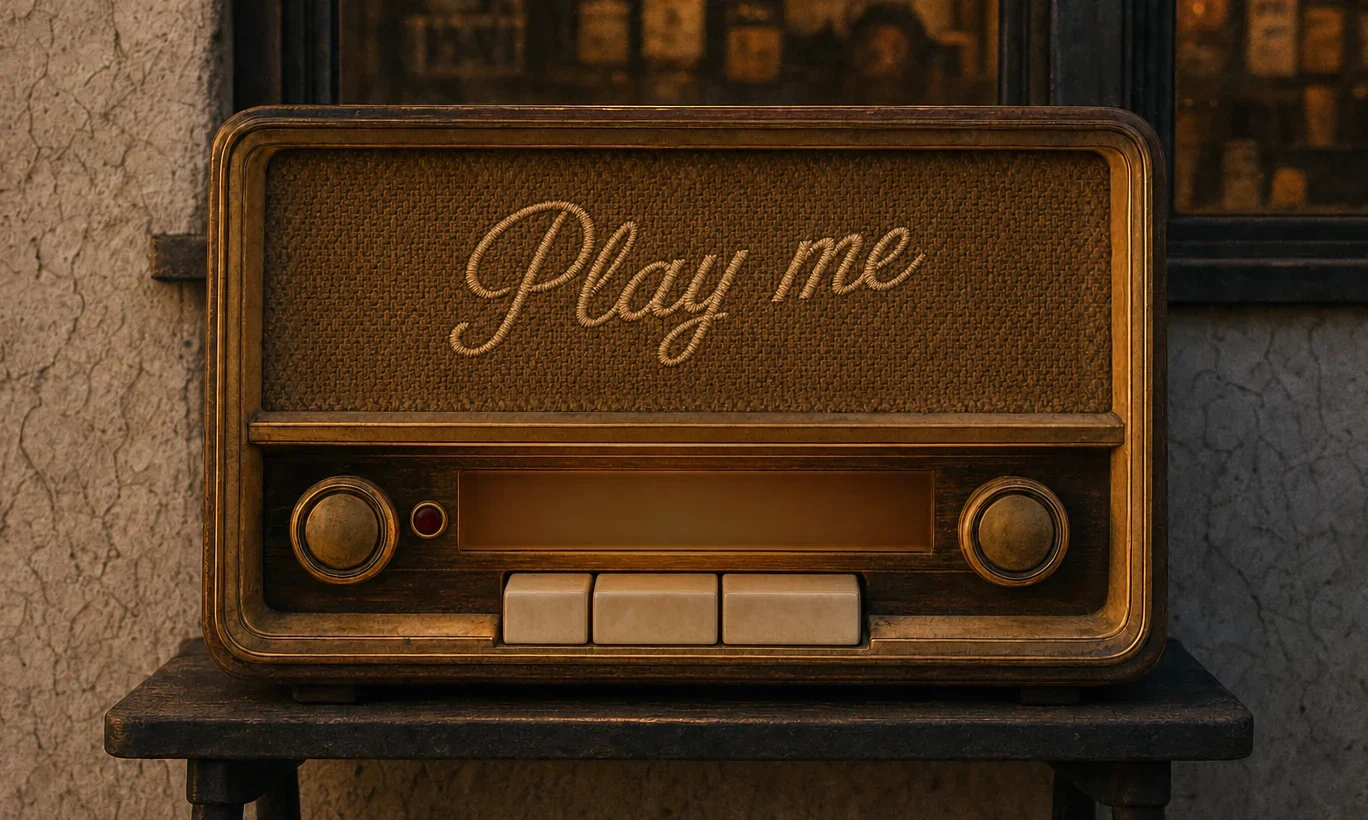
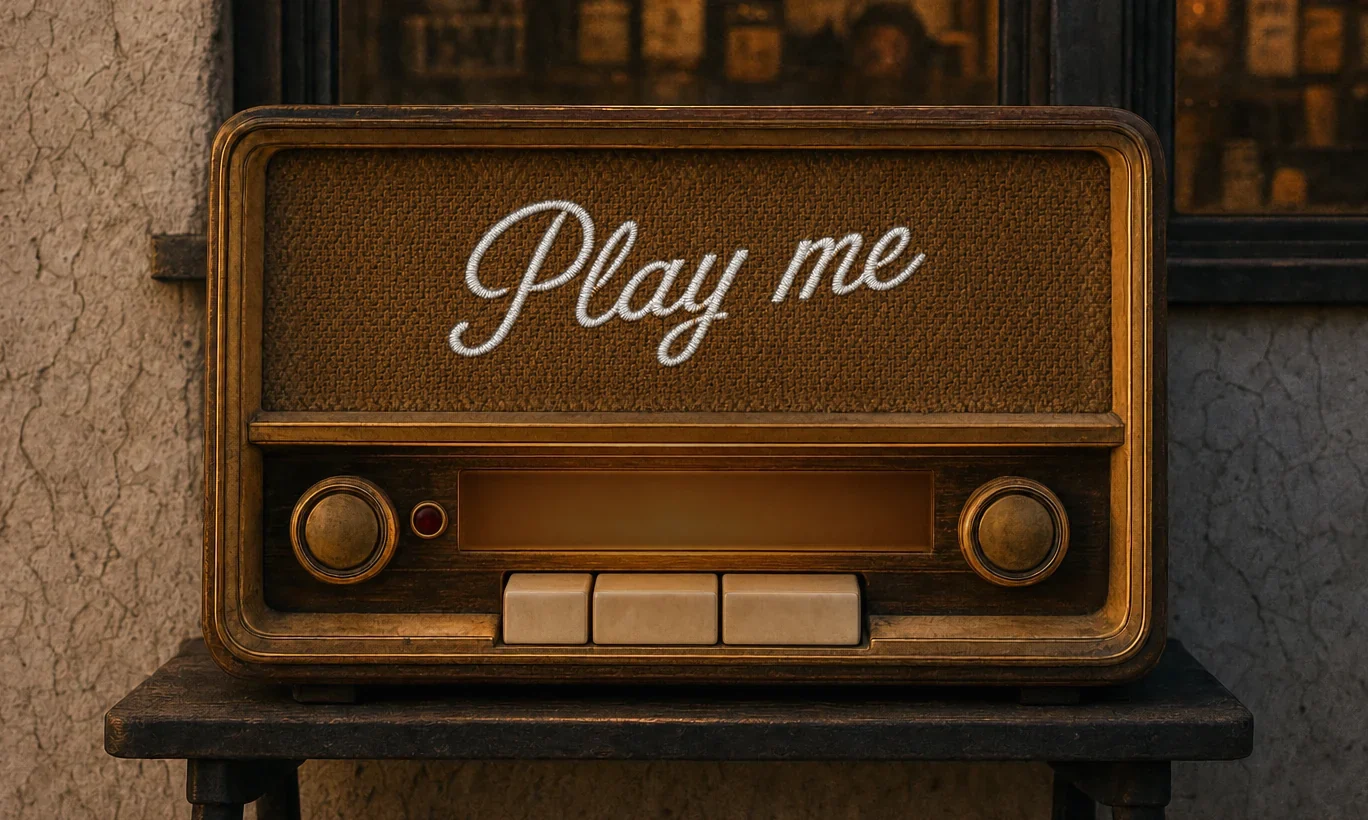
GAS 2 radio: the stitched "Play me" in white thread (Dan 2026-10-26)
Same take-1 letters and stitches, the thread recoloured warm white in
gen_stitch.py (clean letter mask from blurred contrast; each stitch's light kept);
compose always starts from the plain-grille plates of ec4504e.

Changed region(s): [[0.3377, 0.2439, 0.6754, 0.4573], [0.307, 0.3963, 0.3684, 0.4573]]

diff --git a/tools/_gas2-scene/player/tools/gen_stitch.py b/tools/_gas2-scene/player/tools/gen_stitch.py
@@ -4,7 +4,8 @@ the mask opens only the grille cloth, then compose() lays back ONLY the pixels t
 feathered), so the radio, keys, knobs, dial and every coordinate in radio.css stay pixel-identical. The off plate gets the
 same patch through the off/lit ratio of the old plates (the dial lamp's spill), so both states match.
 Usage: python player/tools/gen_stitch.py gen [n]       -> img/gen/stitch-<i>.png (gitignored) + img/gen/stitch-sheet.png
-       python player/tools/gen_stitch.py compose <i>   -> img/radio-lit.webp + img/radio-off.webp (from the git copies)"""
+       python player/tools/gen_stitch.py compose <i> [--tan]   -> img/radio-lit.webp + img/radio-off.webp, built from the
+           plain plates of BASE_REV; the thread is recoloured WHITE (Dan 2026-10-26: "make it white") unless --tan"""
 import base64, json, os, subprocess, sys, urllib.request, uuid
 import numpy as np
 from PIL import Image, ImageFilter
@@ -13,6 +14,7 @@ HERE = os.path.dirname(os.path.abspath(__file__))
 PLAYER = os.path.dirname(HERE)
 IMG = os.path.join(PLAYER, 'img')
 GEN = os.path.join(IMG, 'gen')
+BASE_REV = 'ec4504e'                   # the last commit whose plates have a plain grille (compose always starts from it)
 W, H = 1368, 820                       # the plate, px (radio.css 1u = 1 px of it)
 S = 1536 / W                           # plate -> model px
 GRILLE = (290, 158, 1085, 400)         # the cloth inside its frame (262..1112 x 148..408) minus a margin, plate px
@@ -38,12 +40,12 @@ def key():
 
 
 def plate(name):
-    """the plate as committed (git HEAD), so compose() never stacks a patch on a patched plate"""
+    """the plain plate as committed at BASE_REV, so compose() never stacks a patch on a patched plate"""
     rel = os.path.relpath(os.path.join(IMG, name + '.webp'), subprocess.run(['git', '-C', HERE, 'rev-parse', '--show-toplevel'],
                           capture_output=True, text=True).stdout.strip())
-    tmp = os.path.join(GEN, '_head-' + name + '.webp')
+    tmp = os.path.join(GEN, '_base-' + name + '.webp')
     os.makedirs(GEN, exist_ok=True)
-    open(tmp, 'wb').write(subprocess.run(['git', '-C', HERE, 'show', 'HEAD:' + rel], capture_output=True, check=True).stdout)
+    open(tmp, 'wb').write(subprocess.run(['git', '-C', HERE, 'show', BASE_REV + ':' + rel], capture_output=True, check=True).stdout)
     return np.asarray(Image.open(tmp).convert('RGB')).astype(np.float32)
 
 
@@ -93,7 +95,22 @@ def gen(n):
     sheet.save(os.path.join(GEN, 'stitch-sheet.png'))
 
 
-def compose(i):
+def whiten(a, region):
+    """the take's tan thread -> warm white thread, same stitches. The letters = the thread blurred 2.5 px (stitches + their
+    grooves merge into strokes) standing 14+ above the cloth blurred 14 px (the weave's own highlights are too small to
+    survive the blur: cloth max 9); inside, each pixel's light maps groove-shade -> white (never pure #fff)"""
+    L = a @ np.array([.3, .59, .11], np.float32)
+    blur = lambda x, r: np.asarray(Image.fromarray(x.clip(0, 255).astype(np.uint8)).filter(ImageFilter.GaussianBlur(r))).astype(np.float32)
+    seed = ((blur(L, 2.5) - blur(L, 14) > 14) & (region > .2)).astype(np.uint8) * 255
+    let = Image.fromarray(seed).filter(ImageFilter.MaxFilter(3)).filter(ImageFilter.GaussianBlur(1))
+    al = (np.asarray(let).astype(np.float32) / 255)[..., None]
+    hi = np.percentile(L[al[..., 0] > .9], 97)
+    rel = np.clip((L - 30) / (hi - 30), 0, 1)[..., None] ** .85
+    shade, wh = np.array([88, 80, 70], np.float32), np.array([247, 242, 232], np.float32)
+    return a * (1 - al) + (shade + (wh - shade) * rel) * al
+
+
+def compose(i, white=True):
     lit, off = plate('radio-lit'), plate('radio-off')
     out = Image.open(os.path.join(GEN, f'stitch-{i}.png')).convert('RGB')
     new = np.asarray(out.crop((0, 0, 1536, round(H * S))).resize((W, H), Image.LANCZOS)).astype(np.float32)
@@ -104,6 +121,8 @@ def compose(i):
     box = Image.new('L', (W, H), 0); box.paste(255, GRILLE)
     m = np.asarray(m).astype(np.float32) / 255 * np.asarray(box.filter(ImageFilter.GaussianBlur(6))).astype(np.float32) / 255
     m = m[..., None]
+    if white:
+        new = whiten(new, m[..., 0])
     lit2 = lit * (1 - m) + new * m
     ratio = np.stack([np.asarray(Image.fromarray(np.clip((off[..., c] + 1) / (lit[..., c] + 1) * 128, 0, 255).astype(np.uint8))
                                  .filter(ImageFilter.GaussianBlur(20))).astype(np.float32) / 128 for c in range(3)], -1)
@@ -119,6 +138,6 @@ if __name__ == '__main__':
     if sys.argv[1:2] == ['gen']:
         gen(int(sys.argv[2]) if len(sys.argv) > 2 else 3)
     elif sys.argv[1:2] == ['compose']:
-        compose(int(sys.argv[2]))
+        compose(int(sys.argv[2]), white='--tan' not in sys.argv)
     else:
         print(__doc__)

diff --git a/tasks/handoff.md b/tasks/handoff.md
@@ -42,6 +42,10 @@ badge click = play / stop, `.played` on first play), `DESIGN.md` §3 (script acc
   Checked (headless 1141 + 1440): no errors / 404s, all audio 200; badge -> play ORIGINAL 1/0; GAS 2 key 0/1; ORIGINAL 1/0;
   dial ELEC. -> st 2; tuning knob -> st 3; volume knob -> .62; play key stop / start; badge -> stop; hover moves nothing.
   Not checked: Dan's Safari by eye, real ears.
+- 2026-10-26, then (Dan: "cool make it white"): the same take-1 letters, thread recoloured warm white in code (`compose 1`,
+  default; `--tan` = the model's tan): letter mask = the take blurred 2.5 px minus blurred 14 px > 14 (the weave's own highlights
+  max 9, so no cloth blotches), each stitch's light kept (groove shade -> #f7f2e8). Compose now always starts from BASE_REV
+  `ec4504e` (the last plain-grille plates). Checked again headless: all keys / badge / hover as above.
 - Picked with the DESIGN.md "ONE script line per screen" rule flagged ("Fill it up." is Yellowtail too): recorded as
   "a nameplate ON a prop is not a line".
 - Checked: headless Chromium 1141x636 + 1440x900, no errors / 404s; badge click -> playing ORIGINAL (gains 1/0), glint stops;
